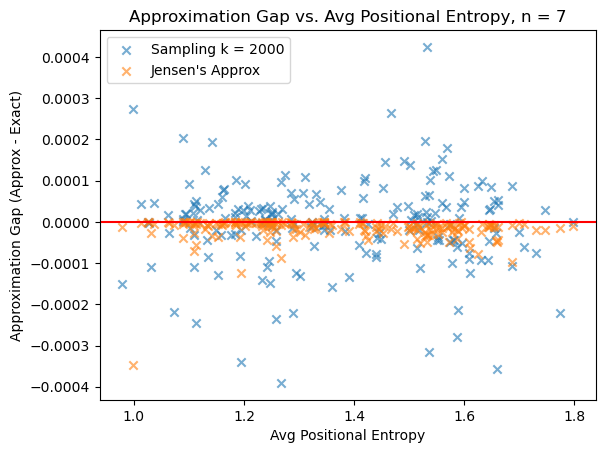
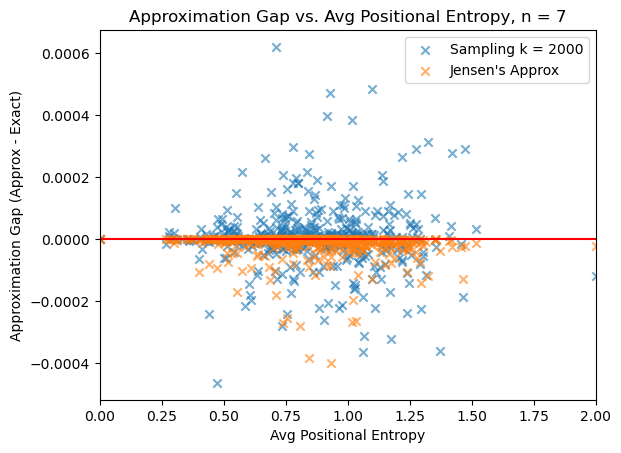
new graphs

diff --git a/ncrna_design/sampling/graph.py b/ncrna_design/sampling/graph.py
@@ -7,8 +7,7 @@ if sys.argv[2] == 'samples':
         
         n = int(lines[0].split(', ')[0].split(': ')[1])
         exact_value = float(lines[n+1].split(': ')[1])
-        jensen_value_simple = float(lines[n+2].split(': ')[1])
-        jensen_value_full = float(lines[n+3].split(': ')[1])
+        jensen_value_full = float(lines[n+2].split(': ')[1])
 
         k = []
         val = []
@@ -17,14 +16,14 @@ if sys.argv[2] == 'samples':
                 k.append(int(line.split()[0]))
                 val.append(float(line.split()[1]))
 
-        plt.ylim(exact_value-0.001, exact_value+0.005)
+        plt.ylim(exact_value-0.0002, exact_value+0.0002)
 
-        plt.axhline(y=exact_value, color='r', label='Exact Value (Full model)')
+        plt.axhline(y=exact_value, color='r', alpha=1.0, label='Exact Value (Full model)')
         # plt.axhline(y=jensen_value_simple, color='orange', label='Jensen Approximation (Simple model)')
-        plt.axhline(y=jensen_value_full, color='g', label='Jensen Approximation (Full model)')
+        plt.axhline(y=jensen_value_full, color='g', alpha=0.6, label='Jensen Approximation (Full model)')
 
         plt.xlabel('Number of Samples')
-        plt.ylabel('Free Energy of Ensemble (kcal/mol)')
+        plt.ylabel('Expected Free Energy of Ensemble (kcal/mol)')
         plt.title(f'Monte Carlo Sampling, n = {n}, Uniform Distribution')
 
         plt.plot(k, val, label='Sample Approximation (Full model)')
@@ -41,24 +40,25 @@ else:
         exact = []
         n = int(lines[0].split(', ')[0].split(': ')[1])
         k = int(lines[0].split(', ')[1].split(': ')[1])
-        for line in lines[2:200]:
+        for line in lines[2:]:
             if len(line) > 0:
                 entropy.append(float(line.split(", ")[0]))
                 sampling.append(float(line.split(", ")[1]))
-                if len(line.split(", ")) > 2:
-                    jensen.append(float(line.split(", ")[2]))
-                    exact.append(float(line.split(", ")[3]))
+                jensen.append(float(line.split(", ")[2]))
+                exact.append(float(line.split(", ")[3]))
 
         sampling_gap = [x - y for x, y in zip(sampling, exact)]
         jensen_gap = [x - y for x, y in zip(jensen, exact)]
+
+        plt.xlim(-0.0, 2.0)
+        # plt.ylim(-0.025, 0.01)
 
         plt.xlabel('Avg Positional Entropy')
         plt.ylabel('Approximation Gap (Approx - Exact)')
         plt.title(f'Approximation Gap vs. Avg Positional Entropy, n = {n}')
 
         plt.axhline(y=0.0, color='r')
-        plt.scatter(entropy, sampling_gap, label=f'Sampling k = {k}', marker='x', alpha=0.6)
-        if len(jensen) > 0:
-            plt.scatter(entropy, jensen_gap, label='Jensen\'s Approx', marker='x', alpha=0.6)
+        plt.scatter(entropy, sampling_gap, label=f'Sampling k = {k}', marker='x', alpha=0.5)
+        plt.scatter(entropy, jensen_gap, label='Jensen\'s Approx', marker='x', alpha=0.5)
         plt.legend()
         plt.savefig(f'approx_gap/{sys.argv[1]}.png', format='png', bbox_inches='tight')
